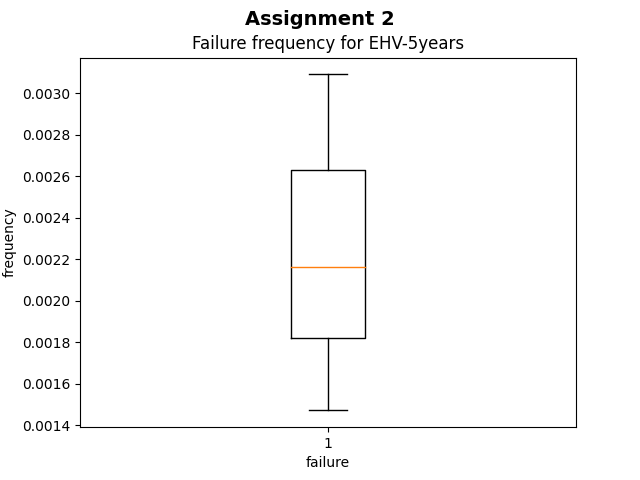
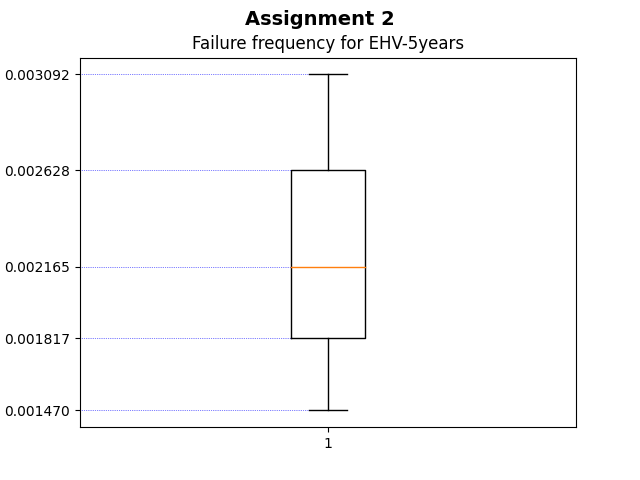
Add quantiles to all boxplots

diff --git a/Lab1.py b/Lab1.py
@@ -46,7 +46,7 @@ def assignment_2(name, nfails, km, nyears, mean):
     confidence_interval_right = chi2.ppf(1 - alpha / 2, 2 * F) / (2 * T)
     confidence_interval_left = chi2.ppf(alpha / 2, 2 * F + 2) / (2 * T)
 
-    print("Confidence interval for {} = [{}, {}]".format(name, confidence_interval_left, confidence_interval_right))
+    print("{}% Confidence interval for {} = [{}, {}]".format((1 - alpha) * 100, name, confidence_interval_left, confidence_interval_right))
 
     # figure related code
     fig = plt.figure()
@@ -58,10 +58,17 @@ def assignment_2(name, nfails, km, nyears, mean):
     ax.boxplot([confidence_interval_left, mean, confidence_interval_right])
 
     ax.set_title('Failure frequency for {}'.format(name))
-    ax.set_xlabel('failure')
-    ax.set_ylabel('frequency')
 
-    fig.savefig('Assignment 2 - Failure frequency for {}.png'.format(name))
+    quantiles = np.quantile([confidence_interval_left, mean, confidence_interval_right], np.array([0.00, 0.25, 0.50, 0.75, 1.00]))
+    ax.hlines(quantiles, [0] * quantiles.size, [1] * quantiles.size,
+              color='b', ls=':', lw=0.5, zorder=0)
+    ax.set_xlim(0.5, 1.5)
+    ax.set_yticks(quantiles)
+
+    if name.find("5") == -1:
+        fig.savefig('Assignment 3 - Failure frequency for {}.png'.format(name))
+    else:
+        fig.savefig('Assignment 2 - Failure frequency for {}.png'.format(name))
     plt.show()
 
 def assignment_3():
@@ -102,8 +109,12 @@ def assignment_5():
     ax.boxplot(data)
 
     ax.set_title('Repair times for OHL')
-    ax.set_xlabel('repair')
-    ax.set_ylabel('time')
+
+    quantiles = np.quantile(data, np.array([0.00, 0.25, 0.50, 0.75, 1.00]))
+    ax.hlines(quantiles, [0] * quantiles.size, [1] * quantiles.size,
+              color='b', ls=':', lw=0.5, zorder=0)
+    ax.set_xlim(0.5, 1.5)
+    ax.set_yticks(quantiles)
 
     fig.savefig('Assignment 5.png')
     plt.show()
@@ -134,8 +145,6 @@ def assignment_6():
     ax.plot(x_axis, exponential(x_axis, *params), '--')
 
     ax.set_title('Fitted exponential curve')
-    ax.set_xlabel('repair time')
-    ax.set_ylabel('F(t)')
 
     fig.savefig('Assignment 6 - Fitted exponential curve.png')
     plt.show()
@@ -151,7 +160,7 @@ if __name__ == '__main__':
     print("Assignment 1:\n")
     mean_EHV = assignment_1('EHV', 25, 2310, 5)
     mean_HV = assignment_1('HV', 51, 3329, 5)
-    mean_EHV_HV = calculate_mean(25 + 51, 2310 + 3329, 5)
+    mean_EHV_HV = assignment_1('EHV+HV', 76, 5639, 5)
     if mean_EHV > mean_HV:
         print("EHV has a higher failure frequency than HV\n\n")
     else:
